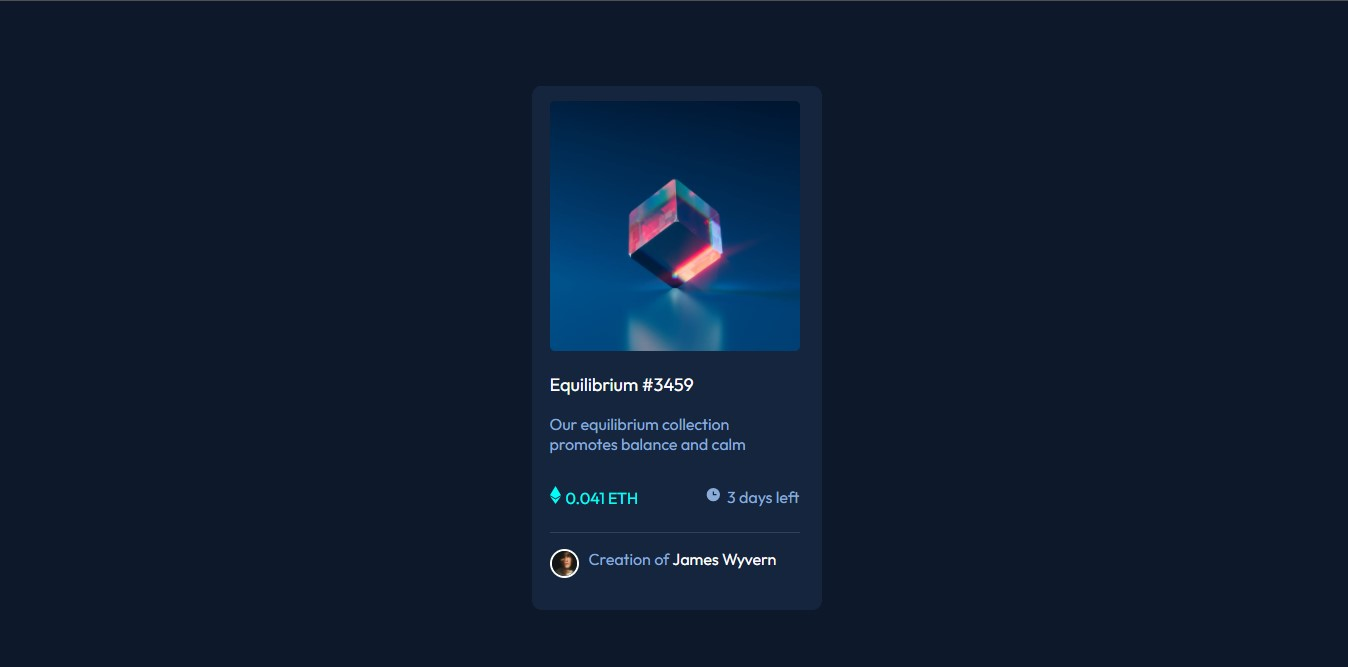
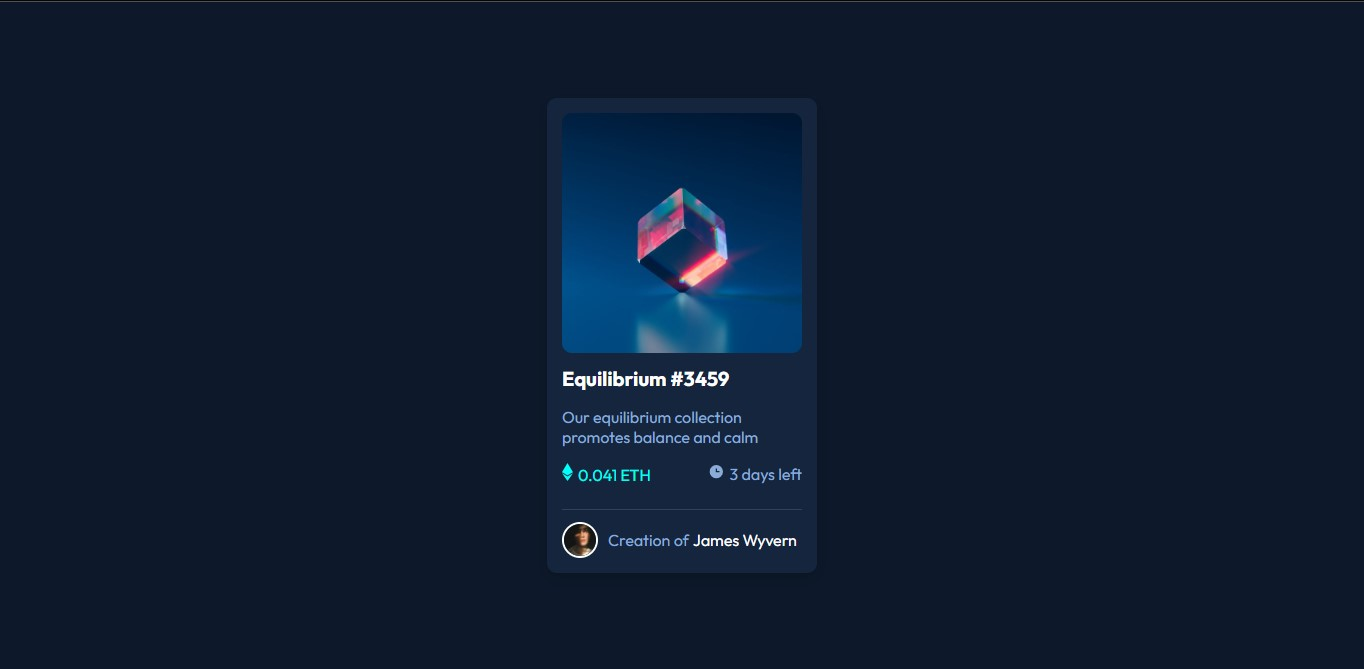
done

Changed region(s): [[0.405, 0.2699, 0.592, 0.8696], [0.4674, 0.2699, 0.592, 0.5097]]

diff --git a/index.html b/index.html
@@ -20,23 +20,25 @@
       <div class="backimage">
         <img class="main-image" src="./images/image-equilibrium.jpg" alt="image of a box">
         <div class="frontimage">
-          <img src="./images/icon-view.svg" alt="eye icon">
+          <img src="./images/icon-view.svg" class="second-image" alt="eye icon">
         </div>
       </div>
 
       <h1 class="textone">Equilibrium #3459</h1>
       <p class="texttwo">Our equilibrium collection promotes balance and calm</p>
 
-      <div style="display: flex; justify-content: space-between; align-items: center; ">
-        <p class="p1"><img style="margin-right: 5px;" src="./images/icon-ethereum.svg" alt="icon"><span style="color: hsl(178, 100%, 50%);">0.041 ETH</span></p>
+      <div style="display: flex; justify-content: space-between; align-content: center;">
 
-        <p class="p2>"><img style="margin-right: 5px;" src="./images/icon-clock.svg" alt="clock icon"><span style="color: hsl(215, 51%, 70%);">3 days left</span></p>
+        <p><img style="margin-right: 5px;" src="./images/icon-ethereum.svg" alt="icon"><span style="color: hsl(178, 100%, 50%);">0.041 ETH</span></p>
+
+        <p><img style="margin-right: 5px;" src="./images/icon-clock.svg" alt="clock icon">3 days left</p>
+
       </div>
   
       <hr style="margin-bottom: 5%;">
 
       <footer style="display: flex; align-items: center;">
-        <img class="avatar" src="./images/image-avatar.png" alt="another human">
+        <img class="avatar" src="./images/image-avatar.png" alt="human">
         <span style="margin-right: 4px;">Creation of</span> <span id="james">James Wyvern</span>
       </footer>
     </main>

diff --git a/style.css b/style.css
@@ -18,21 +18,21 @@ body {
   background-color: hsl(216, 50%, 16%);
   padding: 15px;
   text-align: left;
-  border-radius: 5px;
+  border-radius: 10px;
   box-shadow: 0px 5px 18px rgb(0 0 0 / 26%);
-}
-.main-image {
-  margin: auto;
-  width: 100%;
-  border-radius: 5px;
-  opacity: 1;
-  /* display: block; */
-  transition: .5s ease;
-  backface-visibility: hidden;
 }
 .backimage {
   position: relative;
   width: 100%;
+}
+.main-image {
+  margin: auto;
+  width: 100%;
+  border-radius: 10px;
+  opacity: 1;
+  display: block;
+  transition: .5s ease;
+  backface-visibility: hidden;
 }
 .frontimage {
   transition: .5s ease;
@@ -49,14 +49,12 @@ body {
 }
 .backimage:hover .frontimage {
   opacity: 1;
-  /* background-color:; */
 }
 .textone {
   color: white;
   font-size: 20px;
 }
 .texttwo {
-  color: hsl(215, 51%, 70%);
   margin-bottom: 0px;
 }
 hr {

diff --git a/README.md b/README.md
@@ -1,6 +1,6 @@
 # Frontend Mentor - NFT preview card component solution
 
-This is a solution to the [NFT preview card component challenge on Frontend Mentor](https://www.frontendmentor.io/challenges/nft-preview-card-component-SbdUL_w0U). Frontend Mentor challenges help you improve your coding skills by building realistic projects. 
+This is a solution to the [NFT preview card component challenge on Frontend Mentor](https://www.frontendmentor.io/challenges/nft-preview-card-component-SbdUL_w0U). 
 
 ## Table of contents
 
@@ -43,17 +43,54 @@ Users should be able to:
 
 ### What I learned
 
-Practiced CSS flexbox.
-
-To see how you can add code snippets, see below:
+Practiced CSS flexbox. 
+Learned ABOUT IMAGE OVERLAY (interesting topic).  
 
 ```html
-<div style="display: flex; justify-content: space-between;"></div>
+<div class="backimage">
+  <img class="main-image" src="./images/image-equilibrium.jpg" alt="image of a box">
+  <div class="frontimage">
+     <img src="./images/icon-view.svg" class="second-image" alt="eye icon">
+  </div>
+</div>
+<div style="display: flex; justify-content: space-between;">.....k</div>
+```
+
+```CSS
+.backimage {
+  position: relative;
+  width: 100%;
+}
+.main-image {
+  margin: auto;
+  width: 100%;
+  border-radius: 10px;
+  opacity: 1;
+  display: block;
+  transition: .5s ease;
+  backface-visibility: hidden;
+}
+.frontimage {
+  transition: .5s ease;
+  opacity: 0;
+  position: absolute;
+  top: 50%;
+  left: 50%;
+  transform: translate(-50%, -50%);
+  -ms-transform: translate(-50%, -50%);
+  text-align: center;
+}
+.backimage:hover .main-image {
+  opacity: 0.3;
+}
+.backimage:hover .frontimage {
+  opacity: 1;
+}
 ```
 
 ### Continued development
 
-Flexbox, Hover.
+Flexbox, Hover, CSS image overlay, CSS transform, CSS translate.
 
 ## Author
 
